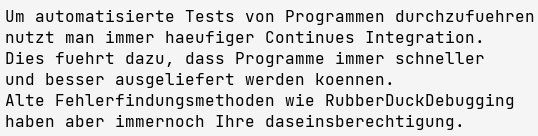
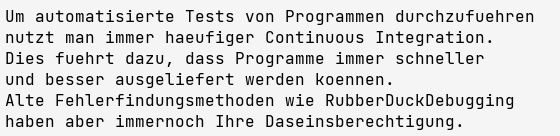
updated experiment for realtive paths and fixxed typos

diff --git a/Study/Study_lastrun.py b/Study/Study_lastrun.py
@@ -1,8 +1,8 @@
 #!/usr/bin/env python
 # -*- coding: utf-8 -*-
 """
-This experiment was created using PsychoPy3 Experiment Builder (v2021.2.2),
-    on September 30, 2021, at 17:22
+This experiment was created using PsychoPy3 Experiment Builder (v2021.2.1),
+    on Oktober 05, 2021, at 10:41
 If you publish work using this script the most relevant publication is:
 
     Peirce J, Gray JR, Simpson S, MacAskill M, Höchenberger R, Sogo H, Kastman E, Lindeløv JK. (2019) 
@@ -59,7 +59,7 @@ _thisDir = os.path.dirname(os.path.abspath(__file__))
 os.chdir(_thisDir)
 
 # Store info about the experiment session
-psychopyVersion = '2021.2.2'
+psychopyVersion = '2021.2.1'
 expName = 'Study'  # from the Builder filename that created this script
 expInfo = {'participant': '', 'session': '001'}
 dlg = gui.DlgFromDict(dictionary=expInfo, sortKeys=False, title=expName)
@@ -75,7 +75,7 @@ filename = _thisDir + os.sep + u'data/%s_%s_%s' % (expInfo['participant'], expNa
 # An ExperimentHandler isn't essential but helps with data saving
 thisExp = data.ExperimentHandler(name=expName, version='',
     extraInfo=expInfo, runtimeInfo=None,
-    originPath='C:\\Users\\jonas\\Documents\\GitHub\\Brocantiny\\Study\\Study_lastrun.py',
+    originPath='C:\\Users\\SE-Chair\\Documents\\GitHub\\Brocantiny\\Study\\Study_lastrun.py',
     savePickle=True, saveWideText=True,
     dataFileName=filename)
 # save a log file for detail verbose info
@@ -107,6 +107,28 @@ ioDevice = ioConfig = ioSession = ioServer = eyetracker = None
 # create a default keyboard (e.g. to check for escape)
 defaultKeyboard = keyboard.Keyboard()
 
+# Initialize components for Routine "CodeStartup"
+CodeStartupClock = core.Clock()
+from EyetrackerUtils.base_functionalities.logger import Logger
+global use_eyetracking
+global logger
+use_eyetracking = True
+logger = None
+if use_eyetracking:
+    logger = Logger("C:/Users/SE-Chair/Documents/GitHub/Brocantiny/Study/data/Eyedata_S" + str(int(expInfo["session"])) + "_P" + str(int(expInfo["participant"])) +".csv")
+    logger.add_key_to_log('left_gaze_point_in_user_coordinate_system')
+    logger.add_key_to_log('left_gaze_point_validity')
+    logger.add_key_to_log('right_gaze_point_validity')
+    logger.add_key_to_log('right_gaze_point_in_user_coordinate_system')
+    logger.add_key_to_log('left_gaze_origin_in_user_coordinate_system')
+    logger.add_key_to_log('right_gaze_origin_in_user_coordinate_system')
+    logger.add_key_to_log('left_gaze_point_on_display_area')
+    logger.add_key_to_log('right_gaze_point_on_display_area')
+    logger.add_key_to_log('system_time_stamp')
+    logger.add_key_to_log('left_pupil_diameter')
+    logger.add_key_to_log('right_pupil_diameter')
+    logger.start_recording()
+
 # Initialize components for Routine "Begrüßung"
 BegrüßungClock = core.Clock()
 text = visual.TextStim(win=win, name='text',
@@ -124,7 +146,7 @@ key_resp_2 = keyboard.Keyboard()
 image = visual.ImageStim(
     win=win,
     name='image', units='pix', 
-    image='C:/Users/jonas/Documents/GitHub/Brocantiny/CodeSnippets/Snippets/Eyetracking.png', mask=None,
+    image='../CodeSnippets/Snippets/Eyetracking.png', mask=None,
     ori=0.0, pos=(0, 0), size=(538, 136),
     color=[1,1,1], colorSpace='rgb', opacity=None,
     flipHoriz=False, flipVert=False,
@@ -455,6 +477,57 @@ key_resp_3 = keyboard.Keyboard()
 # Create some handy timers
 globalClock = core.Clock()  # to track the time since experiment started
 routineTimer = core.CountdownTimer()  # to track time remaining of each (non-slip) routine 
+
+# ------Prepare to start Routine "CodeStartup"-------
+continueRoutine = True
+# update component parameters for each repeat
+# keep track of which components have finished
+CodeStartupComponents = []
+for thisComponent in CodeStartupComponents:
+    thisComponent.tStart = None
+    thisComponent.tStop = None
+    thisComponent.tStartRefresh = None
+    thisComponent.tStopRefresh = None
+    if hasattr(thisComponent, 'status'):
+        thisComponent.status = NOT_STARTED
+# reset timers
+t = 0
+_timeToFirstFrame = win.getFutureFlipTime(clock="now")
+CodeStartupClock.reset(-_timeToFirstFrame)  # t0 is time of first possible flip
+frameN = -1
+
+# -------Run Routine "CodeStartup"-------
+while continueRoutine:
+    # get current time
+    t = CodeStartupClock.getTime()
+    tThisFlip = win.getFutureFlipTime(clock=CodeStartupClock)
+    tThisFlipGlobal = win.getFutureFlipTime(clock=None)
+    frameN = frameN + 1  # number of completed frames (so 0 is the first frame)
+    # update/draw components on each frame
+    
+    # check for quit (typically the Esc key)
+    if endExpNow or defaultKeyboard.getKeys(keyList=["escape"]):
+        core.quit()
+    
+    # check if all components have finished
+    if not continueRoutine:  # a component has requested a forced-end of Routine
+        break
+    continueRoutine = False  # will revert to True if at least one component still running
+    for thisComponent in CodeStartupComponents:
+        if hasattr(thisComponent, "status") and thisComponent.status != FINISHED:
+            continueRoutine = True
+            break  # at least one component has not yet finished
+    
+    # refresh the screen
+    if continueRoutine:  # don't flip if this routine is over or we'll get a blank screen
+        win.flip()
+
+# -------Ending Routine "CodeStartup"-------
+for thisComponent in CodeStartupComponents:
+    if hasattr(thisComponent, "setAutoDraw"):
+        thisComponent.setAutoDraw(False)
+# the Routine "CodeStartup" was not non-slip safe, so reset the non-slip timer
+routineTimer.reset()
 
 # ------Prepare to start Routine "Begrüßung"-------
 continueRoutine = True
@@ -2193,6 +2266,8 @@ continueRoutine = True
 key_resp_3.keys = []
 key_resp_3.rt = []
 _key_resp_3_allKeys = []
+if use_eyetracker:
+    logger.stop_recording()
 # keep track of which components have finished
 DankeComponents = [text_3, key_resp_3]
 for thisComponent in DankeComponents:

diff --git a/CodeSnippets/Source/Eyetracking.java b/CodeSnippets/Source/Eyetracking.java
@@ -1,6 +1,6 @@
 Um automatisierte Tests von Programmen durchzufuehren  
-nutzt man immer haeufiger Continues Integration.
+nutzt man immer haeufiger Continuous Integration.
 Dies fuehrt dazu, dass Programme immer schneller
 und besser ausgeliefert werden koennen.
 Alte Fehlerfindungsmethoden wie RubberDuckDebugging
-haben aber immernoch Ihre daseinsberechtigung. 
+haben aber immernoch Ihre Daseinsberechtigung. 
